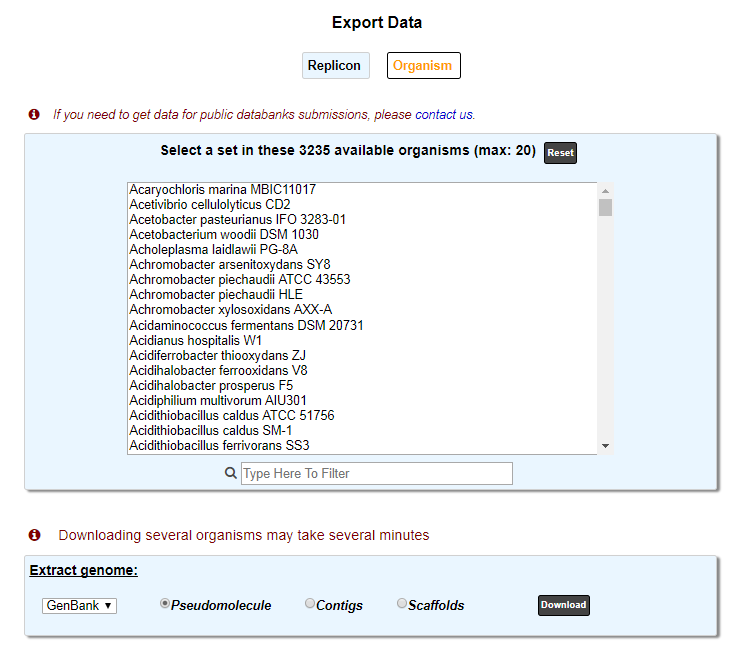
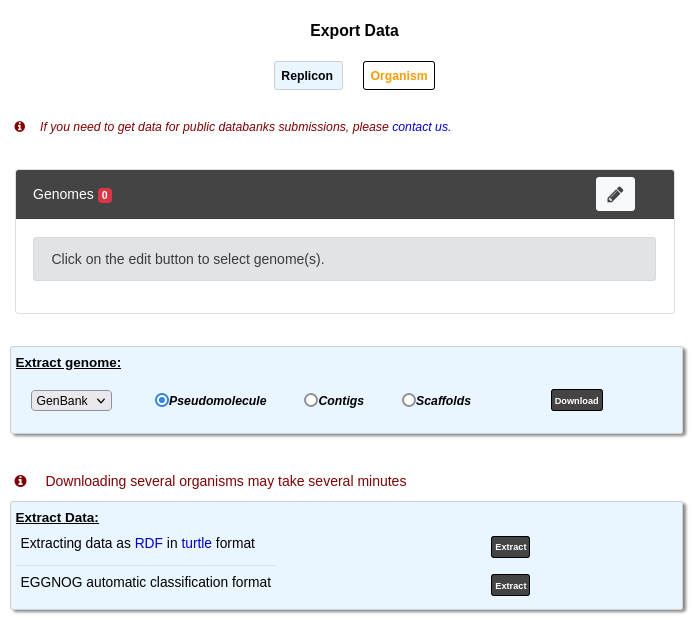
[MISC] Reorganize page (we present each mode separately) and update screenshots. Rename a file.

Changed region(s): [[0.0, 0.0, 1.0, 0.9454], [0.0, 0.7929, 1.0, 1.0], [0.5455, 0.9149, 0.6364, 0.9454]]

diff --git a/docs/content/search/exportForm.rst b/docs/content/search/exportForm.rst
@@ -1,123 +1,136 @@
+.. _export:
+
 ###########
 Export Data
 ###########
 
+This page allows to export data from MicroScope in several formats.
+The page has 2 modes.
+They are presented below with their export possibilities.
+
+*************
 Replicon mode
--------------
+*************
 
 .. image:: img/download_extract_replicon.png
 
-This tool allows to retrieve from a specific organism data stored in PkGDB : complete sequences, non coding DNA, coding sequences (nucleic or proteic), annotated data on genomic objects.
+This tool allows to retrieve data stored in PkGDB from a specific sequence.
+These information can be downloaded in the most common file formats (EMBL, GenBank, Fasta, GFF, Tab delimited).
+Moreover, data on role categories used in MicroScope, and/or MicroCyc metabolic Pathway/Genome database (PGDBs) can be downloaded too.
+See below for a more precise presentation.
 
-These information can be downloaded in the most common file formats (EMBL, GenBank, Fasta, GFF, Tab delimited). Moreover, data on role categories used in MicroScope, and/or MicroCyc metabolic Pathway/Genome database (PGDBs) can be downloaded too.
+To use this mode, first, select a reference replicon from the :ref:`CHANGE button (Item #2) <interface-overview>` available in the top right corner of the interface.
+Or select an organism from your :ref:`Favourite Organisms <favourite-organisms>` selection.
 
-First, select a reference replicon from the :ref:`CHANGE button (Item #2) <interface>` available in the top right corner of the interface. Or select an organism from your :ref:`Favourite Organisms <favourite-organisms>` selection.
-
-Organism mode
--------------
-
-.. image:: img/download_extract_organism.png
-
-This tool allows to retrieve from a group of organism sequences data stored in PkGDB. Extraction of several organisms may take several minutes.
-
+.. _export_replicon_genome:
 
 Extract genome
---------------
+==============
 
 .. image:: img/download_extract_genome.png
 
-In both mode, you can extract the genome(s):
+This part allows you to download the sequence in various formats.
+You can choose to extract:
 
-* Pseudomolecule (all the genomes)
-* Contigs (genomes split by contigs)
-* Scaffolds (genomes split by scaffolds)
+* the pseudomolecule
+* the contigs
+* the scaffolds
 
-In all the formats: `FASTA <http://www.ncbi.nlm.nih.gov/blast/fasta.shtml>`_, `GENBANK <http://www.ncbi.nlm.nih.gov/genbank/>`_,  `EMBL <http://www.ebi.ac.uk/embl/Documentation/User_manual/usrman.html>`_, `GFF3 <https://en.wikipedia.org/wiki/General_feature_format>`_
-
+Use the drop down list to choose the format among:
+* `FASTA <http://www.ncbi.nlm.nih.gov/blast/fasta.shtml>`_
+* `GENBANK <http://www.ncbi.nlm.nih.gov/genbank/>`_
+* `EMBL <http://www.ebi.ac.uk/embl/Documentation/User_manual/usrman.html>`_
+* `GFF3 <https://en.wikipedia.org/wiki/General_feature_format>`_.
 
 Extract data
-------------
+============
 
 .. image:: img/download_extract_data.png
 
-In replicon mode, you can extract in `FASTA <http://www.ncbi.nlm.nih.gov/blast/fasta.shtml>`_:
+The first line of buttons allows to download several parts of the sequence (in the `FASTA <http://www.ncbi.nlm.nih.gov/blast/fasta.shtml>`_ format):
 
-* CDSs (All the CDS of the genome in nucleic)
-* Proteins (All the CDS of the genome in proteic)
-* Repeats (All the repeat region of the genome in nucleic)
-* ncRNAs (All the non-coding RNA of the genome in nucleic)
+* **CDSs** will download the nucleic sequence of all the CDS of the sequence
+* **Proteins** will download the proteic sequence of all the CDS of the sequence
+* **Repeats** will download the nucleic sequence of the repeated regions of the sequence
+* **ncRNAs** will download the nucleic sequence of all the non-coding RNAs of the sequence
 
-You can also extract in Tabulation delimited format:
+The second line allows to extract the annotations (in tabulation delimited format):
 
-* Genome (All the current genomic objects annotation)
-* Auto (All the automatic genomic objects annotation)
+* **Genome** will download the current annotation of all genomic objects in the sequence
+* **Auto** will download the automatic annotation of all genomic objects in the sequence
 
-You can download COG automatic classification (http://www.ncbi.nlm.nih.gov/COG/):
 
-* Genome (All the COG automatic annotation)
+The **Genome** button on the third line allows to download the :ref:`cog`.
 
-You can download EGGNOG automatic classification (http://eggnogdb.embl.de/#/app/home) (Also available in Organism mode):
-
-* Genome (All the EGGNOG automatic annotation)
-
+The **Genome** button on the fourth line allows to download the :ref:`eggnog`.
 
 Finally, you can obtain the :ref:`Microcyc pathways <microcyc>`.
 
-
-Extract region
---------------
+Extract a region
+================
 
 .. image:: img/download_extract_region.png
 
-* Select the *Begin*, *End* positions and precise the strand you want to get. The default values correspond to the region where the :ref:`Genome Browser <viewer>` is centered.
+The first line allows you to extract a region of the nucleic sequence: select the *Begin*, *End* positions and precise the strand you want to get.
+The default values correspond to the region where the :ref:`Genome Browser <viewer>` is centered.
+The data are exported in the `FASTA <http://www.ncbi.nlm.nih.gov/blast/fasta.shtml>`_ format.
+Click on **Extract** to retrieve the results.
 
-The **Sequence** part allow you to extract the sequence (nucleic) in fasta format in the coordinate.
-
-The second part allow you  to extract the annotation in different format (genbank, embl, gff3, tabulation).
-
-Activating the **Full Sequence** option allows you to obtain the annotation of the objects in the region with the coordinates on the full sequence.
-If this option is disabled, you will obtain the genome sequence and the annotation within the region but the location will be recomputed.
-
+The second part allow you to extract the annotations of the objects in the region indicated by *Begin* and *End*.
+With the **Full Sequence** option, you will obtain the annotation of the objects in the region with the coordinates on the full sequence.
+If this option is disabled, you will obtain the annotation within the region but the location will be computed relatively to the region (in this case, the sequence of the region is included).
+Use the drop down list to choose the format.
 
 Noncoding DNA
--------------
+=============
 
 .. image:: img/download_extract_ncrna.png
 
-Extract the ncDNA sequences from a genome. Indicate a minimal length and include, if necessary, the RNAs.
-
+Extract the ncDNA sequences from a genome.
+Indicate a minimal length and include, if necessary, the RNAs.
 
 Extract a sequence fragment
----------------------------
+===========================
 
-.. image:: img/download_extract_label.png
+.. image:: img/download_extract_fragment.png
 
-You can extract a sequence fragment:
-
-* Indicate directly a Genomic Object Label to extract and manage, if necessary, the 5’/3’ extension length.
-
+This tool allows to  extract a sequence fragment by indicating the label of the Genomic Object to extract and the 5’/3’ extension length.
 
 Extract Classification
-----------------------
+======================
 
 .. image:: img/download_extract_classification.png
 
-Get the complete :ref:`Role Classification <mage-roles>` in a text format.
+The **Role Classification** button allows to get the complete :ref:`Role Classification <mage-roles>` in a text format.
 
-Get the complete :ref:`BioProcess Classification <mage-bioprocess>` in a text format.
+The **BioProcess Classification** button allows to get the complete :ref:`BioProcess Classification <mage-bioprocess>` in a text format.
 
+*************
+Organism mode
+*************
 
-Export Organism Data to RDF
----------------------------
+.. image:: img/download_extract_organism.png
+
+This tool allows to retrieve data stored in PkGDB from a group of genomes.
+Extraction of several genomes may take several minutes.
+This page uses the :ref:`advanced-selector` to select the genomes to export.
+
+The **Extract Genome** and **EGGNOG** parts are similar to the **Replicon** mode
+except of course they retrieve information for all the selected genomes.
+
+Therefore, we only describe the **Export Data as RDF** part is described.
+
+Export Data as RDF
+==================
 
 .. image:: img/rdf_button_screenshot.png
 
-Select one or several organisms to export data in RDF to load it for example in a SPARQL triplestore.
+Select one or several genomes to export data in RDF to load it for example in a SPARQL triplestore.
 
-The RDF file format used by MicroScope platform is the `Turtle format <https://www.w3.org/TR/turtle/>`__.
+The RDF file format used by the MicroScope platform is the `Turtle format <https://www.w3.org/TR/turtle/>`_.
 
 MicroScope Ontology
-^^^^^^^^^^^^^^^^^^^
+-------------------
 
 .. image:: img/rdf_mso_diagram.svg
    :alt: MicroScope Ontology (see online documentation).
@@ -131,10 +144,10 @@ ____________________________________________________________________________
 
 
 SPARQL Request examples
-^^^^^^^^^^^^^^^^^^^^^^^
+-----------------------
 
 Prefixes
-"""""""""
+^^^^^^^^
 
 .. code-block:: sparql
 
@@ -156,7 +169,7 @@ Prefixes
    PREFIX metacyc: <https://metacyc.org/META/NEW-IMAGE?type=NIL&object=>
 
 Requests
-""""""""
+^^^^^^^^
 
 .. code-block:: sparql
 
